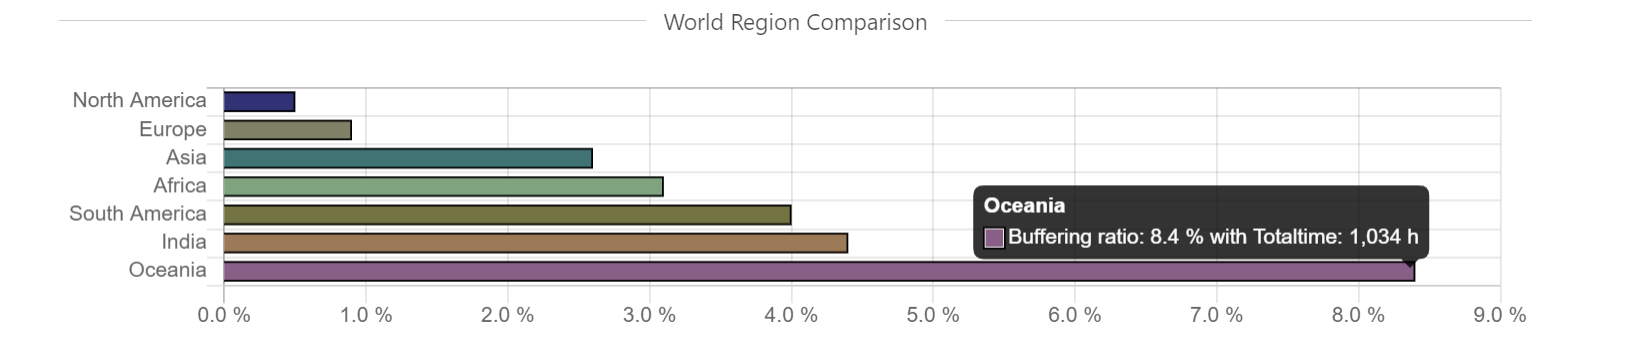
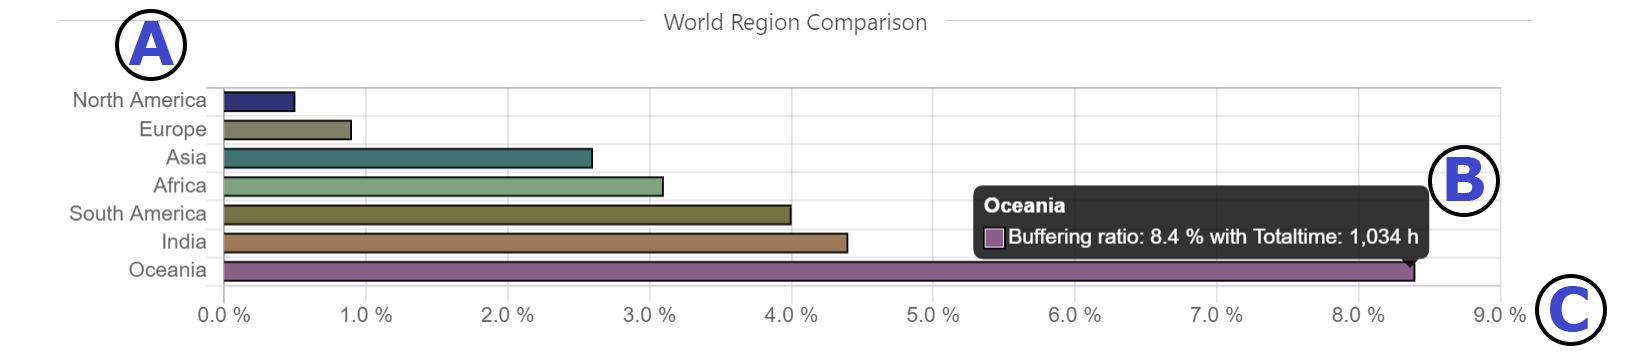
updated worldmap doc pictures and descriptions

Changed region(s): [[0.9231, 0.7618, 1.0, 0.9751], [0.8615, 0.3961, 0.9231, 0.6094], [0.0615, 0.0305, 0.1231, 0.2133]]

diff --git a/docs/cloud/worldmap.md b/docs/cloud/worldmap.md
@@ -22,7 +22,7 @@ You can choose from the following categories:
 -  ABR playtime: the playback duration of streams with activated **"adaptive bitrate"** option enabled
 -  ABR viewer: the total viewer count of country/region
 -  ABR switches: the total amount of stream quality level switches for both - "upgrading" and "downgrading" 
--  Quality of Experience: user rated stream quality evaluation score 
+-  Quality of Experience: average user rated stream quality evaluation score 
 
 The area directly below the world map shows either a top ten country tabular list for the selected category or a region comparison chart when in region view.
 
@@ -31,16 +31,19 @@ In the **Country View** you can investigate the TOP 50 countries that apply to y
 ![Screenshot](assets/analytics-worldmap-country-view.png)
 
 &#9398;
-`View Switch`
+`View Switch` lets you change between country and region view.
 
 &#9399;
-`Metric Selection`
+`Metric Selection` lets you pick a metric to view statistics of in the corresponding time range.
 
 &#9400;
-`CDN Options`
+`CDN Options` lets you specify the content delivery network.
 
 &#9401;
-`Metric Subswitch`
+`Metric Subswitch` lets you choose a **sub-metric** if the current selected metric has more than one.
+
+&#9402;
+`Legend` is available only in country view mode and describes the data in more detail.
 
 ## Regions View
 In the **Region View** all countries belong to there continental region. The functionalites are basically the same than on the **Country View**, but the corresponding data is shown in the **Region Comparison** bar chart below the **Worldmap**.
@@ -53,13 +56,13 @@ In this visualization is shown the current selected metric data while in **Regio
 ![Screenshot](assets/analytics-region-comparison1.png)
 
 &#9398;
-`World Regions`
+`World Regions` - each of the 7 world regions, classified by our server structure. **(not continents)**
 
 &#9399;
-`Bar Tooltip Description`
+`Bar Tooltip Description` opens up when hovering over one bar of the chart. It gives more detailed information based on the chosen metric.
 
 &#9400;
-`Metric Unit`
+`Metric Unit` is always located at the x-axis and changes accordingly to the selected metric and the corresponding data.
 
 If a metric consists of more than 1 metric property, which are uniform, you can select this within the **Metric Subswitch** to show the relation of these properties within a **stacked bar chart**. For example the **ABR Switch Metric**, which indicates the count of stream quality related "up" and "down" switches:
 
